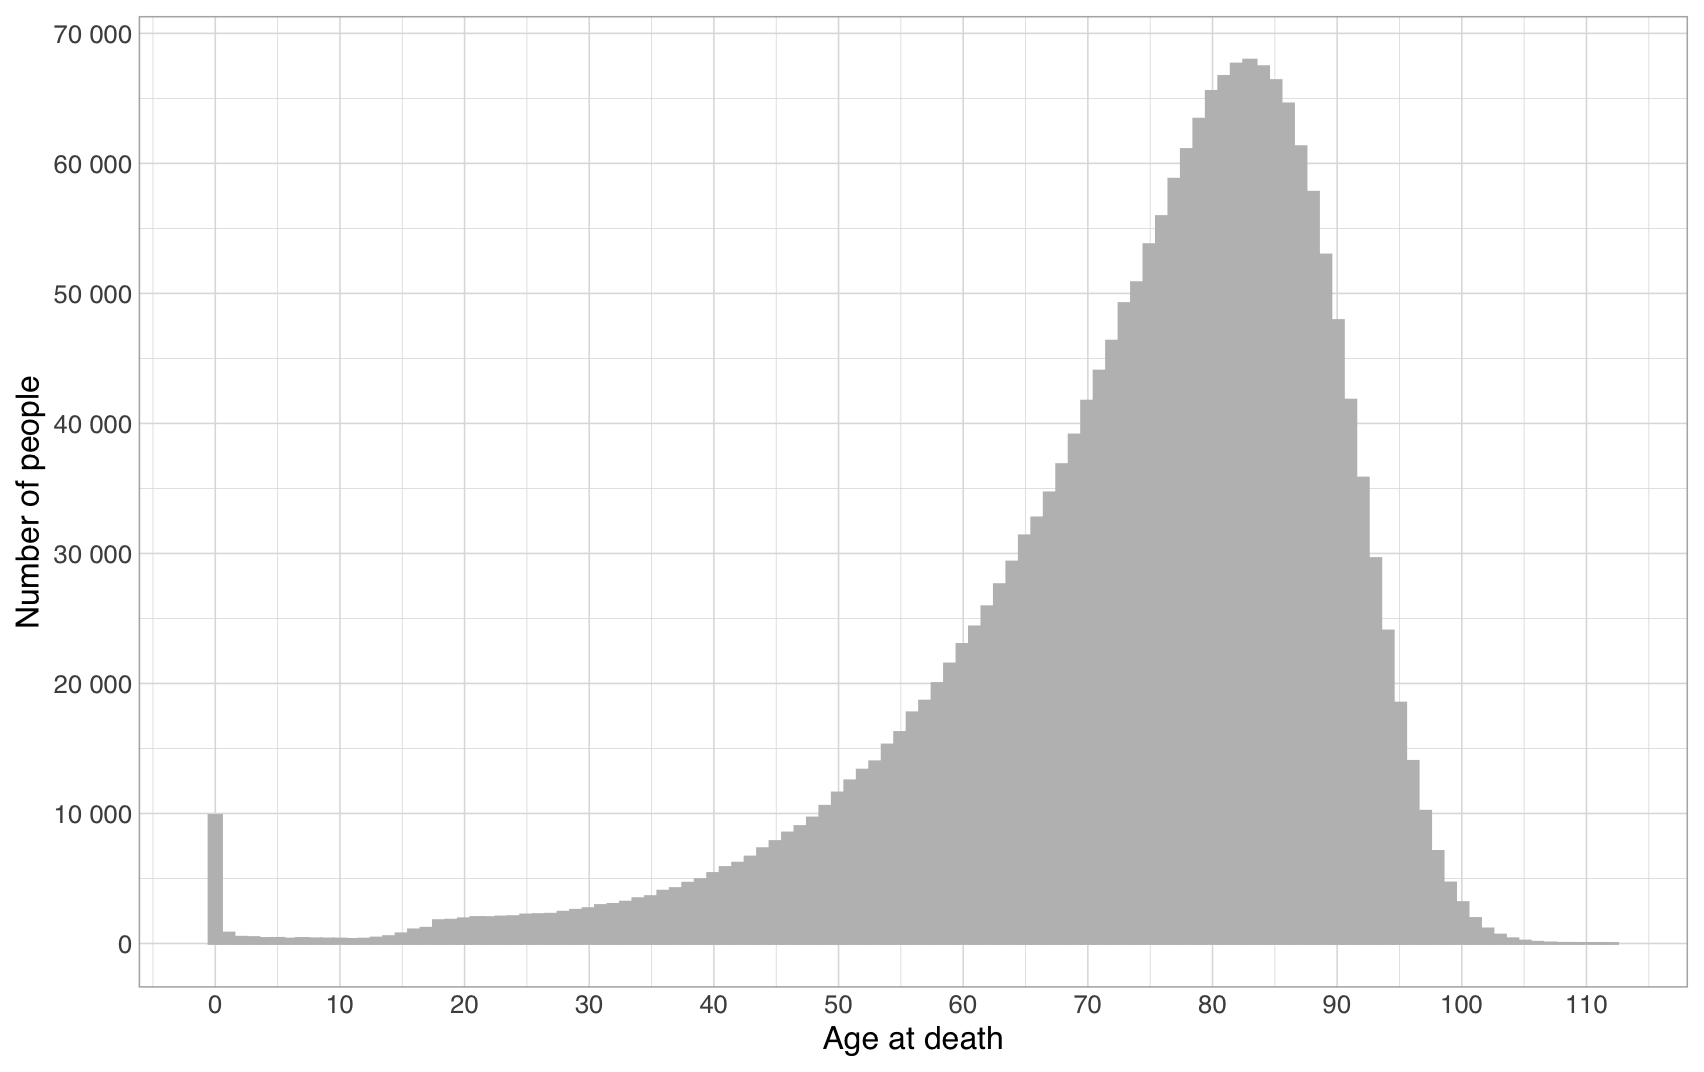
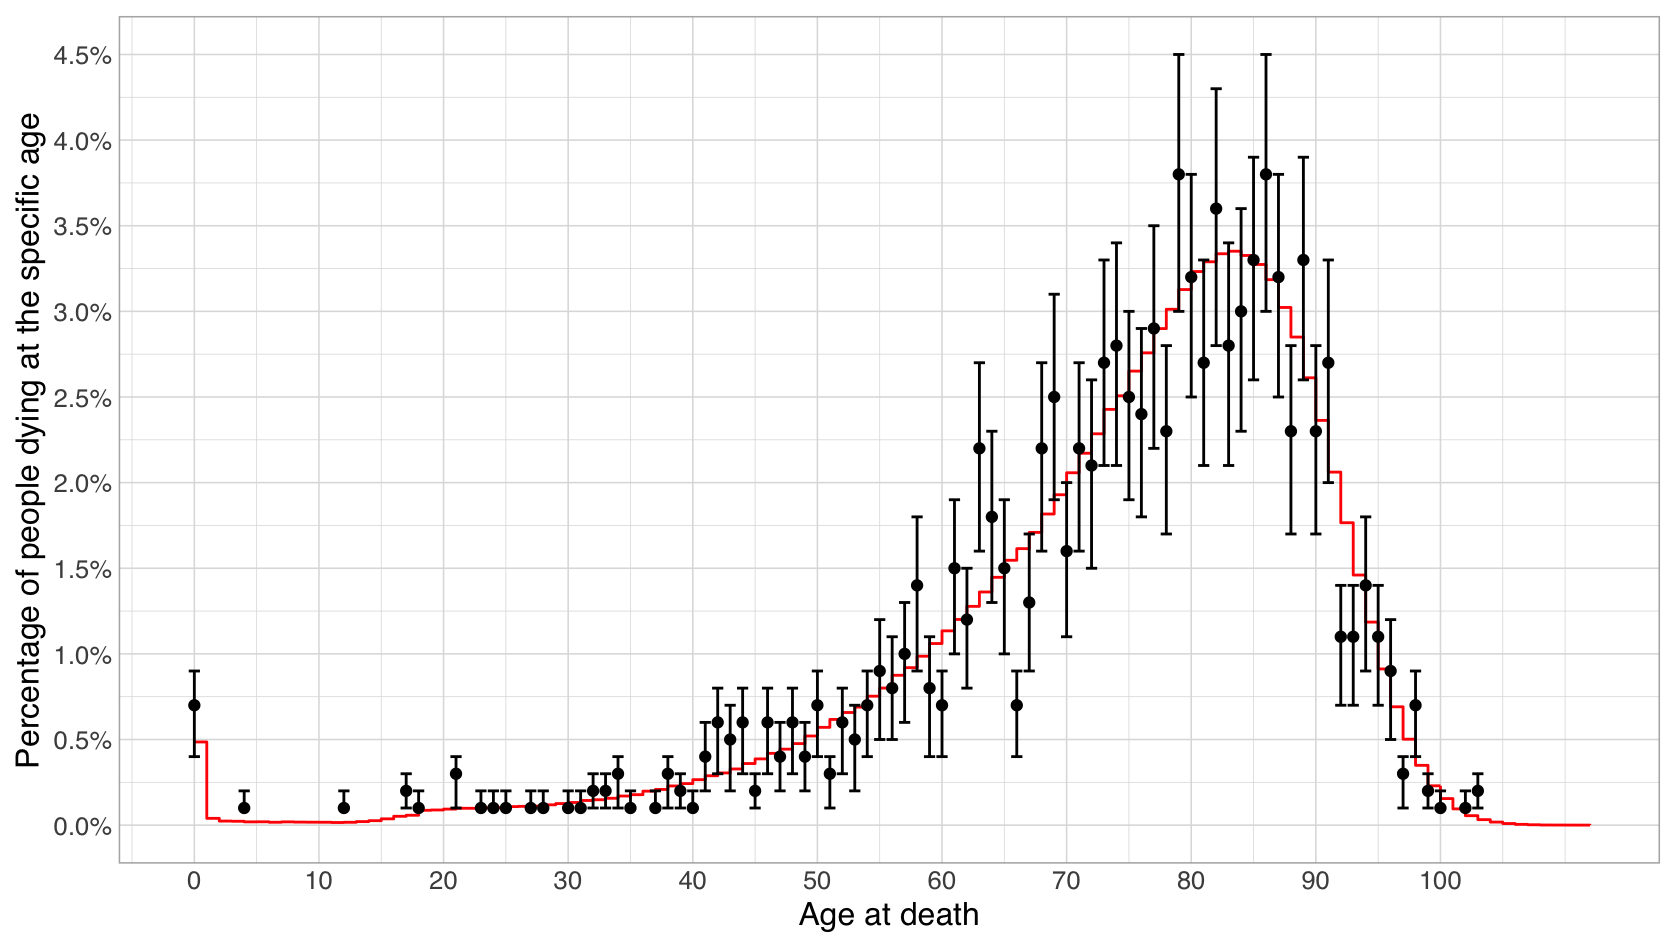
GitBook: [#218] update stats

diff --git a/three-approaches-to-methods-for-digital-humanities-work-area/data-analysis-fundamental-concepts-of-statistics/uncertainty-in-describing-groups.md b/three-approaches-to-methods-for-digital-humanities-work-area/data-analysis-fundamental-concepts-of-statistics/uncertainty-in-describing-groups.md
@@ -95,7 +95,11 @@ Putting this all together, below you can see the proportion estimates as well as
 
 ![Estimated proportions as well as bootstrapped confidence intervals derived from a single 1000 person sample, overlaid with the true distribution](<../../.gitbook/assets/image (23).png>)
 
-Notice how in this image as opposed to the one where sampling error distributions were derived from the full population, the confidence intervals are centred on the sample estimates instead of the true values. Further, note how the true proportion of people dying at a certain age often falls within the "hot" area of the confidence interval, but also sometimes is far from it, such as for example for ages 63 and 66. Finally, note how the width of the confidence interval doesn't tell you anything about whether the estimate is accurate. For example, the confidence interval for the estimate at age 66 is relatively small, yet the estimate is far off from the actual true value.
+If (as in this case) the confidence distribution is normal, one often forgoes complex heatmaps or other plots showing the whole distribution, and instead just gives error bars for appropriate cutoff points in the error distribution:
+
+![Estimated proportions with 90% confidence intervals for the 1000 person sample, underlaid with the true distribution](<../../.gitbook/assets/image (27).png>)
+
+Notice how in these images as opposed to the one where sampling error distributions were derived from the full population, the confidence intervals are centred on the sample estimates instead of the true values. Further, note how the true proportion of people dying at a certain age often falls within the "hot" area of the confidence interval, but also sometimes is far from it, such as for example for ages 63 and 66 (for the second image, the confidence interval should contain the true value 90% of the time). Finally, note how the width of the confidence interval doesn't tell you anything about whether the estimate is accurate. For example, the confidence interval for the estimate at age 66 is relatively small, yet the estimate is far off from the actual true value.
 
 {% hint style="info" %}
 Assignment

diff --git a/three-approaches-to-methods-for-digital-humanities-work-area/data-analysis-fundamental-concepts-of-statistics/comparing-groups.md b/three-approaches-to-methods-for-digital-humanities-work-area/data-analysis-fundamental-concepts-of-statistics/comparing-groups.md
@@ -2,7 +2,13 @@
 
 ![Age at death distributions for Finnish males and females](https://files.gitbook.com/v0/b/gitbook-x-prod.appspot.com/o/spaces%2F-LPB0-GYwxbJd7xOS0FD%2Fuploads%2F40q4PyUzBdojzGivyxok%2Fimage.png?alt=media\&token=449d7db5-0243-45ea-83d2-63a3477f5843)
 
-Picking up where we left off and jumping straight into analysis, from the measures of central tendency depicted above, we can infer that in general, female Finns seem to live quite a bit longer than male Finns, with for example 50% of females living to at least 81 years old (their median age at death), while for male Finns the median age at death is only 73. Further, from the shape of the distribution and the quartiles (25% and 75% equivalents of the 50% median), it can be inferred that the lifespans of Finnish males vary more than those of females. Particularly the first 25% quartile for males is very much to the left of that of females, meaning that a much larger proportion of men die early in their lives.&#x20;
+Picking up where we left off and jumping straight into analysis, from the measures of central tendency depicted above, we can infer that in general, female Finns seem to live quite a bit longer than male Finns, with for example 50% of females living to at least 81 years old (their median age at death), while for male Finns the median age at death is only 73. Further, from the shape of the distribution and the quartiles (25% and 75% equivalents of the 50% median), it can be inferred that the lifespans of Finnish males vary more than those of females. Particularly the first 25% quartile for males is very much to the left of that of females, meaning that a much larger proportion of men die early in their lives.
+
+In the case of data describing complete populations, this is basically all there is to comparing them: either plot the distributions and compare visually, or calculate e.g. averages and variances and compare them. However, in practice again things get a lot more complicated due to needing to compare groups based on smaller samples.
 
 ## Uncertainty in comparing groups based on samples
+
+
+
+
 
